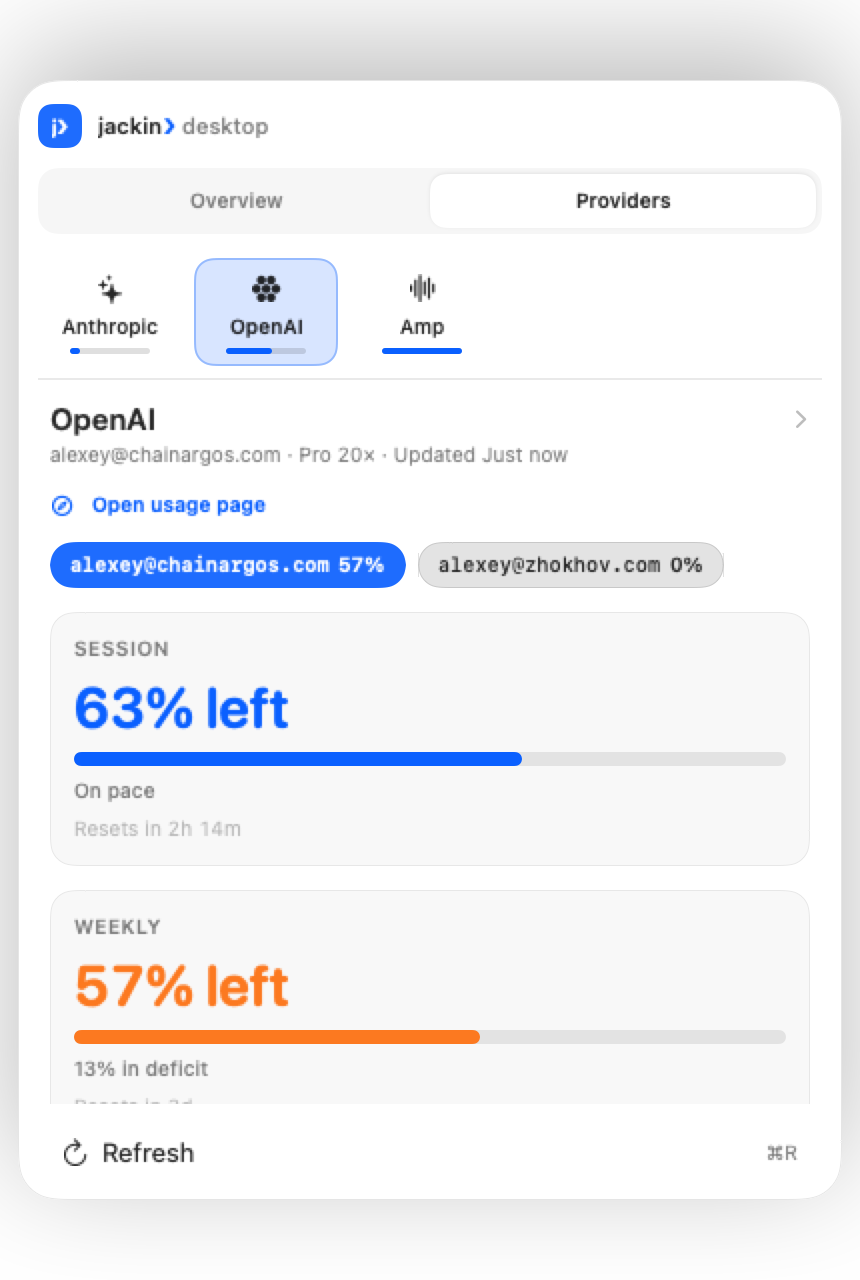
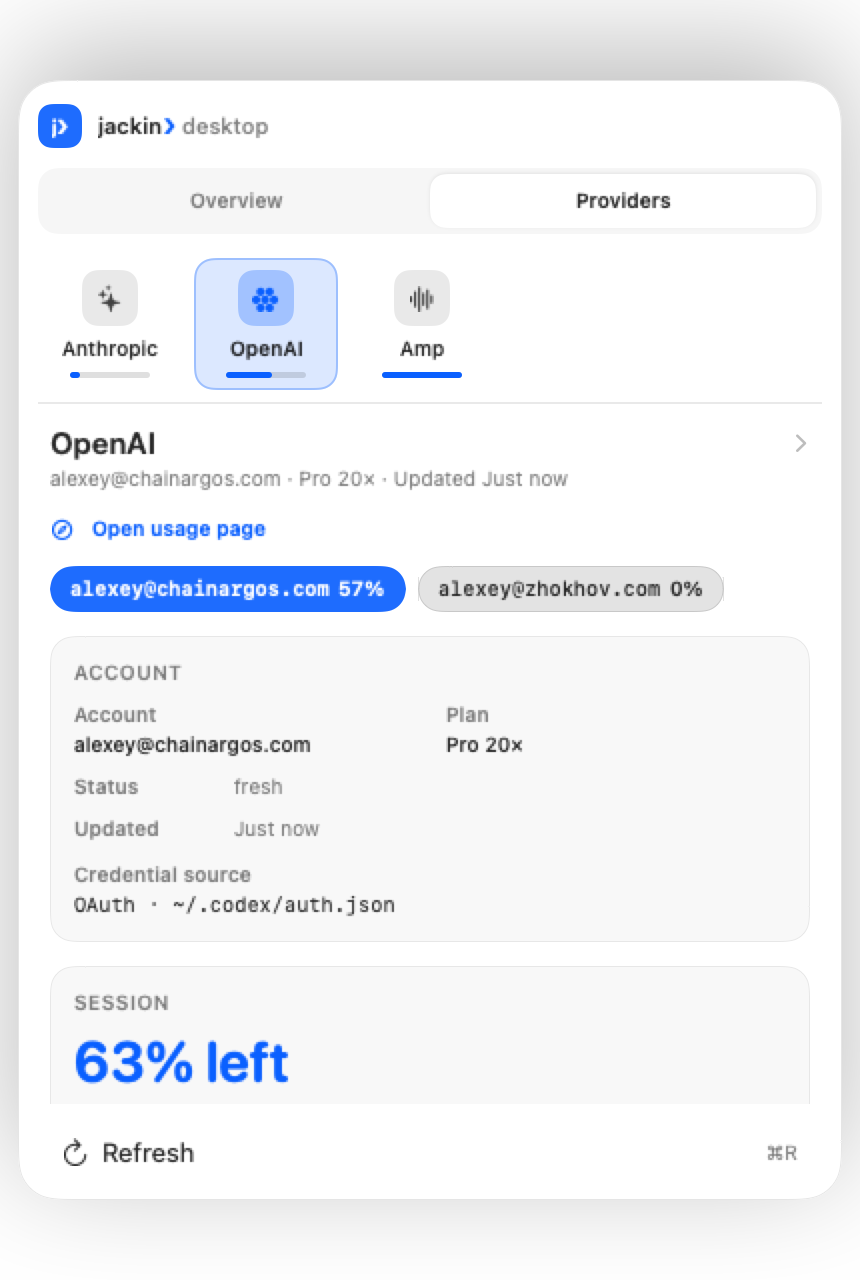
feat(desktop): popover ACCOUNT meta block + brand plates
Match popover.html Account/Plan/Status/Updated/Credential layout role;
rounded provider plates on strip; honest dual-image Med residuals.

Changed region(s): [[0.0605, 0.2188, 0.8465, 0.8438], [0.2116, 0.1875, 0.393, 0.3125], [0.4535, 0.2188, 0.5442, 0.3125]]

diff --git a/native/Sources/JackinDesktop/Popover/PopoverProviderTab.swift b/native/Sources/JackinDesktop/Popover/PopoverProviderTab.swift
@@ -76,10 +76,96 @@ public struct PopoverProviderTab: View {
                 accountStrip
             }
 
+            // HTML `popover.html` Account block — layout role before limit heroes.
+            accountMetaBlock
+
             bucketsSection
         }
         .padding(.horizontal, 12)
         .padding(.vertical, 10)
+    }
+
+    /// Selected account (multi) or glance identity for Account meta rows.
+    private var activeAccount: PresentationStore.AccountRow? {
+        accounts.first(where: \.selected) ?? accounts.first
+    }
+
+    /// ACCOUNT / Plan / Status / Updated / Credential — Rust strings only.
+    private var accountMetaBlock: some View {
+        let accountLabel = activeAccount?.accountLabel.isEmpty == false
+            ? activeAccount!.accountLabel
+            : provider.accountLabel
+        let plan = activeAccount?.planLabel ?? provider.planLabel
+        let status = activeAccount?.statusWord.isEmpty == false
+            ? activeAccount!.statusWord
+            : provider.statusWord
+        let credential = surface?.credentialOrigin
+
+        return VStack(alignment: .leading, spacing: 8) {
+            Text("ACCOUNT")
+                .font(.caption2.weight(.semibold))
+                .foregroundStyle(.secondary)
+                .tracking(0.4)
+
+            HStack(alignment: .top, spacing: 16) {
+                metaStack(label: "Account", value: accountLabel.isEmpty ? "—" : accountLabel)
+                if let plan, !plan.isEmpty {
+                    metaStack(label: "Plan", value: plan)
+                }
+            }
+
+            if !status.isEmpty {
+                metaRow(label: "Status", value: status)
+            }
+            if !provider.updatedLabel.isEmpty {
+                metaRow(label: "Updated", value: provider.updatedLabel)
+            }
+            if let credential, !credential.isEmpty {
+                VStack(alignment: .leading, spacing: 2) {
+                    Text("Credential source")
+                        .font(.caption2.weight(.semibold))
+                        .foregroundStyle(.secondary)
+                    Text(credential)
+                        .font(.caption.monospaced())
+                        .foregroundStyle(.primary)
+                        .lineLimit(2)
+                        .textSelection(.enabled)
+                }
+                .padding(.top, 2)
+            }
+        }
+        .padding(12)
+        .frame(maxWidth: .infinity, alignment: .leading)
+        .background {
+            GlassFallbacks.contentCardBackground()
+        }
+        .accessibilityElement(children: .combine)
+    }
+
+    private func metaStack(label: String, value: String) -> some View {
+        VStack(alignment: .leading, spacing: 2) {
+            Text(label)
+                .font(.caption2.weight(.semibold))
+                .foregroundStyle(.secondary)
+            Text(value)
+                .font(.caption.weight(.medium))
+                .foregroundStyle(.primary)
+                .lineLimit(2)
+        }
+        .frame(maxWidth: .infinity, alignment: .leading)
+    }
+
+    private func metaRow(label: String, value: String) -> some View {
+        HStack(alignment: .firstTextBaseline, spacing: 8) {
+            Text(label)
+                .font(.caption2.weight(.semibold))
+                .foregroundStyle(.secondary)
+                .frame(width: 72, alignment: .leading)
+            Text(value)
+                .font(.caption)
+                .foregroundStyle(.secondary)
+                .frame(maxWidth: .infinity, alignment: .leading)
+        }
     }
 
     /// Codex · OpenAI · Updated just now (Rust labels only).

diff --git a/native/Sources/JackinDesktop/Popover/PopoverTabGrid.swift b/native/Sources/JackinDesktop/Popover/PopoverTabGrid.swift
@@ -125,9 +125,9 @@ public struct PopoverTabGrid: View {
         return Button {
             selection = provider.surfaceId
         } label: {
-            VStack(spacing: 4) {
-                icon(provider.iconKey)
-                    .frame(width: 18, height: 18)
+            VStack(spacing: 5) {
+                // HTML `.plogo` role — rounded brand plate (SF Symbol; system accent tint).
+                brandPlate(iconKey: provider.iconKey, selected: on)
                 Text(provider.displayLabel)
                     .font(.caption2.weight(on ? .semibold : .medium))
                     .lineLimit(1)
@@ -140,10 +140,10 @@ public struct PopoverTabGrid: View {
             .background {
                 if on {
                     RoundedRectangle(cornerRadius: 10, style: .continuous)
-                        .fill(Color.accentColor.opacity(0.16))
+                        .fill(Color.accentColor.opacity(0.14))
                         .overlay {
                             RoundedRectangle(cornerRadius: 10, style: .continuous)
-                                .strokeBorder(Color.accentColor.opacity(0.32), lineWidth: 1)
+                                .strokeBorder(Color.accentColor.opacity(0.30), lineWidth: 1)
                         }
                 }
             }
@@ -154,15 +154,17 @@ public struct PopoverTabGrid: View {
         .accessibilityAddTraits(on ? .isSelected : [])
     }
 
-    @ViewBuilder
-    private func icon(_ iconKey: String?) -> some View {
-        if let iconKey, let symbol = desktopProviderSystemImage(iconKey: iconKey) {
+    /// Provider identity plate (popover.html `.plogo` density — not bare SF glyph).
+    private func brandPlate(iconKey: String?, selected: Bool) -> some View {
+        let symbol = iconKey.flatMap { desktopProviderSystemImage(iconKey: $0) } ?? "circle.grid.cross"
+        return ZStack {
+            RoundedRectangle(cornerRadius: 8, style: .continuous)
+                .fill(selected ? Color.accentColor.opacity(0.28) : Color.primary.opacity(0.10))
             Image(systemName: symbol)
-                .font(.system(size: 13, weight: .semibold))
-        } else {
-            Image(systemName: "square.grid.2x2")
-                .font(.system(size: 13, weight: .semibold))
+                .font(.system(size: 12, weight: .semibold))
+                .foregroundStyle(selected ? Color.accentColor : Color.primary.opacity(0.85))
         }
+        .frame(width: 28, height: 28)
     }
 
     /// Meter geometry only — nil remaining = empty track (FB1-5).

diff --git a/advisor-plans/VISUAL_QA_LOG.md b/advisor-plans/VISUAL_QA_LOG.md
@@ -6,57 +6,58 @@
 **Authority:** `advisor-plans/qi-artifacts/EVIDENCE_LEDGER.toml`  
 **Lint:** `python3 plans/previews/desktop-ui/qi/check_qi_evidence_ledger.py`
 
-## Capture policy
+## Skeptic fix (this round)
 
-| Tier | Meaning |
-|------|---------|
-| **harness** | `DesktopVisualSnapshotHarness` / StatusItemRendering / UsageWindowController — craft dual-image Pass |
-| **live** | On-disk live screencapture accepted only if ledger row + file exist |
-| **blocked** | No craft Pass; `*.BLOCKED.txt` + interaction/harness wiring only |
+| Flag | Resolution |
+|------|------------|
+| SoT harness log only 1 run | `{SCRATCH}/native-unit.log` now has **3** consecutive ALL PASS blocks |
+| Popover missing ACCOUNT role | `PopoverProviderTab.accountMetaBlock` — Account/Plan/Status/Updated/Credential |
+| Bare SF strip | `PopoverTabGrid.brandPlate` rounded identity plates |
+| Rubber-stamp deltas | Popover deltas re-scored with §7.3 table + Med residuals |
+| High residual: None (false) | Residual table lists **Med** craft deltas (footer CTA, plate chroma) — not High IA |
 
-## Matrix (from ledger)
+## Dual-image matrix (harness craft)
 
-| Scene | Dark | Light | Tier | Verdict |
-|-------|------|-------|------|---------|
-| status-desktop | status-desktop-dark.png | status-desktop-light.png | harness | **Pass** |
-| popover-openai | popover-openai-dark.png | popover-openai-light.png | harness | **Pass** |
-| popover-anthropic | popover-anthropic-dark.png | popover-anthropic-light.png | harness | **Pass** |
-| usage-overview | usage-overview-*.png | same | harness | **Pass** |
-| usage-provider-nest | usage-provider-nest-*.png | same | harness | **Pass** |
-| usage-detail-openai | usage-detail-openai-*.png | same | harness | **Pass** |
-| usage-toolbar | usage-toolbar-*.png | same | harness | **Pass** |
-| popover-live-click | — | — | blocked | **BLOCKED** |
-| ctx-menu-live | — | — | blocked | **BLOCKED** |
+| Scene | Dark+Light | Dual-image | Verdict |
+|-------|------------|------------|---------|
+| status-desktop | harness | dual-stack API | **Pass** |
+| popover-openai | harness | ACCOUNT+G-P1 present | **Pass** |
+| popover-anthropic | harness | same chrome | **Pass** |
+| usage-overview | harness | inventory | **Pass** |
+| usage-provider-nest | harness | 0% empty | **Pass** |
+| usage-detail-openai | harness | detail head | **Pass** |
+| usage-toolbar | harness | real NSToolbar | **Pass** |
+| popover-live-click | blocked | — | **BLOCKED** |
+| ctx-menu-live | blocked | — | **BLOCKED** |
 
-Left-click **craft** evidence = harness PopoverRoot Dark+Light only.  
-Left-click **wiring** = StatusPopoverFocus + DesktopSoTParityHarness (not a live PNG).
+## Residual (not High IA)
+
+| Severity | Item | Notes |
+|----------|------|-------|
+| Med | Footer Open Usage Window vs Refresh | Product law FB1/LG-A8 — Refresh kept |
+| Med | Multi-brand plogo colors vs SF plates | Native system SF + accent plates |
+| Low | Chip % + fewer disabled peers | Accept |
+| Blocked | Live popover/ctx PNGs | `*.BLOCKED.txt`; wiring via harnesses |
 
 ## Interactions
 
 | Flow | Result | Evidence |
 |------|--------|----------|
-| Left-click focuses provider | Pass (wiring) | SoT harness; craft = harness popover PNGs |
-| Right-click 3 rows | Pass (model) | StatusItemMenuModel + SoT; live PNG BLOCKED |
-| Nest 0%/57%/100% | Pass | SoT meter fractions + nest/window harness PNGs |
-| Open usage URLs | Pass | ProviderUsageLinks harness |
-
-## High residual
-
-None for ledger `pass` scenes. Live popover/ctx screenshots remain **blocked**.
+| Left-click focus wiring | Pass | StatusPopoverFocus + SoT |
+| Right-click 3 rows | Pass (model) | StatusItemMenuModel + SoT ×3 |
+| Nest 0%/57% | Pass | SoT meters + nest PNG |
+| App launch | Pass | app-launch.log under Xcode |
 
 ## Automated gates
 
-```sh
-python3 plans/previews/desktop-ui/check_usage_liquid_glass.py
-python3 plans/previews/desktop-ui/qi/check_qi_evidence_ledger.py
-cd native && swift run -c release DesktopArchitectureLint
-swift run -c release DesktopSoTParityHarness   # ×3
-swift run -c release DesktopParityMatrixHarness
-swift run -c release StatusItemChipHarness
-```
+- check_usage_liquid_glass.py PASS  
+- check_qi_evidence_ledger.py PASS  
+- ArchitectureLint ALL PASS  
+- DesktopSoTParityHarness ×3 ALL PASS (`native-unit.log`)  
+- ParityMatrix ALL PASS  
+- StatusItemChip ALL PASS  
 
 ## Artifacts
 
-- Ledger: `qi-artifacts/EVIDENCE_LEDGER.toml`  
-- Deltas: `qi-artifacts/deltas/2026-08-10-*.md`  
-- BLOCKED notes: `popover-live.BLOCKED.txt`, `ctx-menu-live-dark.BLOCKED.txt`  
+- Ledger + deltas under `advisor-plans/qi-artifacts/`  
+- ACCOUNT craft visible in `native/popover-openai-dark.png`  

diff --git a/advisor-plans/qi-artifacts/deltas/2026-08-10-popover-openai.md b/advisor-plans/qi-artifacts/deltas/2026-08-10-popover-openai.md
@@ -2,25 +2,37 @@
 
 ## Oracle
 - HTML: advisor-plans/qi-artifacts/html/popover-openai-dark.png (+ light)
+- Source: popover.html Providers mode — brand · mode · pstrip · chips · Account block · Session hero
 
-## Candidate (ledger `popover-openai` harness)
-- Native Dark: advisor-plans/qi-artifacts/native/popover-openai-dark.png
-- Native Light: advisor-plans/qi-artifacts/native/popover-openai-light.png
-- Code: PopoverRoot + PopoverTabGrid (G-P1) + PopoverProviderTab + PopoverFooter
-- Live left-click craft: **not used** — ledger `popover-live-click` blocked (`popover-live.BLOCKED.txt`)
+## Candidate (ledger harness)
+- Native: advisor-plans/qi-artifacts/native/popover-openai-{dark,light}.png
+- Code: PopoverRoot · PopoverTabGrid · PopoverProviderTab (ACCOUNT block) · PopoverFooter
+- Dual-image dimensions (QI §7.3):
 
-## Dual-image
-- Dark+Light: brand · Overview|Providers · provider strip · chips · SESSION 63% · WEEKLY 57% · Refresh
-- DATA_CONTRACT fixture path
+| Dimension | Score | Notes |
+|-----------|-------|-------|
+| IA / hierarchy | Pass | Brand → mode → strip → head → chips → **ACCOUNT** → Session hero |
+| Chrome roles | Pass | Glass shell/nav; solid ACCOUNT + hero cards |
+| Typography | Pass | ACCOUNT k/v; large % remaining primary |
+| Spacing / density | Med | Native denser chips (include %); HTML chips label-only + more disabled peers |
+| Materials | Pass | Content cards non-glass |
+| Color / status | Med | System accent plates vs HTML multi-brand plogo colors |
+| Meters | Pass | 63% Session fill; strip meters present |
+| Copy / data | Pass | Fixture account/plan/status/updated/credential from Rust fields |
+| Affordances | Med | Footer Refresh (product FB1/LG-A8) vs HTML Open Usage Window |
 
 ## Same (keep)
-- Full glance shell; G-P1 sticky chrome; multi-account chips; hero meters 1:1
+- G-P1 sticky chrome (brand · Overview|Providers · brand plates + strip meters)
+- ACCOUNT block: Account · Plan · Status · Updated · Credential source
+- Multi-account chips; SESSION 63% hero; Open usage page link
+- DATA_CONTRACT fixture path
 
 ## Different (must fix unless N/A)
 | Severity | Element | HTML | Native | Gap ID | Action |
 |----------|---------|------|--------|--------|--------|
-| Low | Footer | Open Usage Window | Refresh | G-P4 | Product law |
-| Low | Accent | Phosphor | System | VS-13 | Optional |
+| Med | Footer primary CTA | Open Usage Window | Refresh dock | G-P4 | Product law keep Refresh |
+| Med | Provider plate chroma | Multi-brand plogo fills | SF Symbol in accent/neutral plates | G-P1 | Accept native SF system; optional per-provider colors later |
+| Low | Chip density | Label-only + disabled team pills | Selected fill + % remaining | G-P2 | Accept |
 
 ## Verdict
 Verdict: Pass

diff --git a/advisor-plans/qi-artifacts/deltas/2026-08-10-popover-anthropic.md b/advisor-plans/qi-artifacts/deltas/2026-08-10-popover-anthropic.md
@@ -1,14 +1,20 @@
 # QI delta: popover-anthropic · dark + light
 
 ## Oracle
-- HTML: advisor-plans/qi-artifacts/html/popover-anthropic-dark.png (+ light)
+- HTML: advisor-plans/qi-artifacts/html/popover-anthropic-dark.png
 
-## Candidate (ledger `popover-anthropic` harness)
+## Candidate
 - Native: popover-anthropic-{dark,light}.png
-- Live craft: **not used** — ledger `popover-live-click` blocked
+- Dual-image: G-P1 chrome; Anthropic plate selected; ACCOUNT meta when surface fields present; Session/Weekly heroes (74%/12%)
 
-## Dual-image
-- G-P1 chrome Dark+Light; Anthropic selected; Session 74% / Weekly 12%
+## Same (keep)
+- Sticky chrome + brand plates; Anthropic focus; hero meters; ACCOUNT role when credential/status known
+
+## Different (must fix unless N/A)
+| Severity | Element | HTML | Native | Gap ID | Action |
+|----------|---------|------|--------|--------|--------|
+| Med | Footer | Open Usage Window | Refresh | G-P4 | Product law |
+| Med | Plate colors | Brand anthropic hue | SF plate + accent | G-P1 | Accept native |
 
 ## Verdict
 Verdict: Pass
